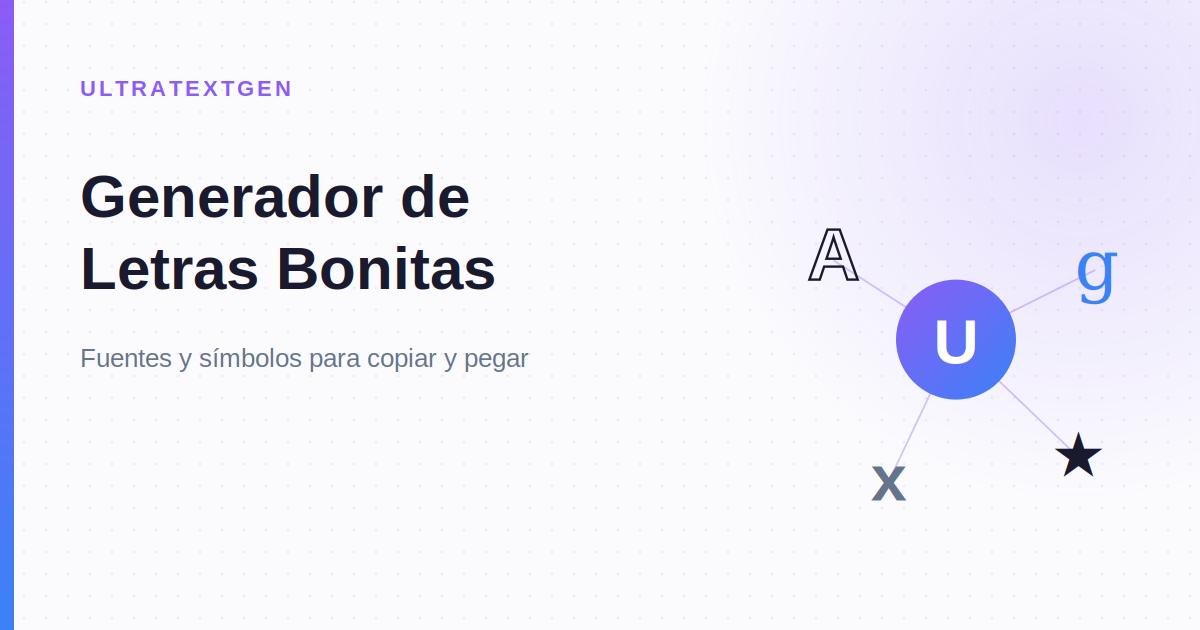
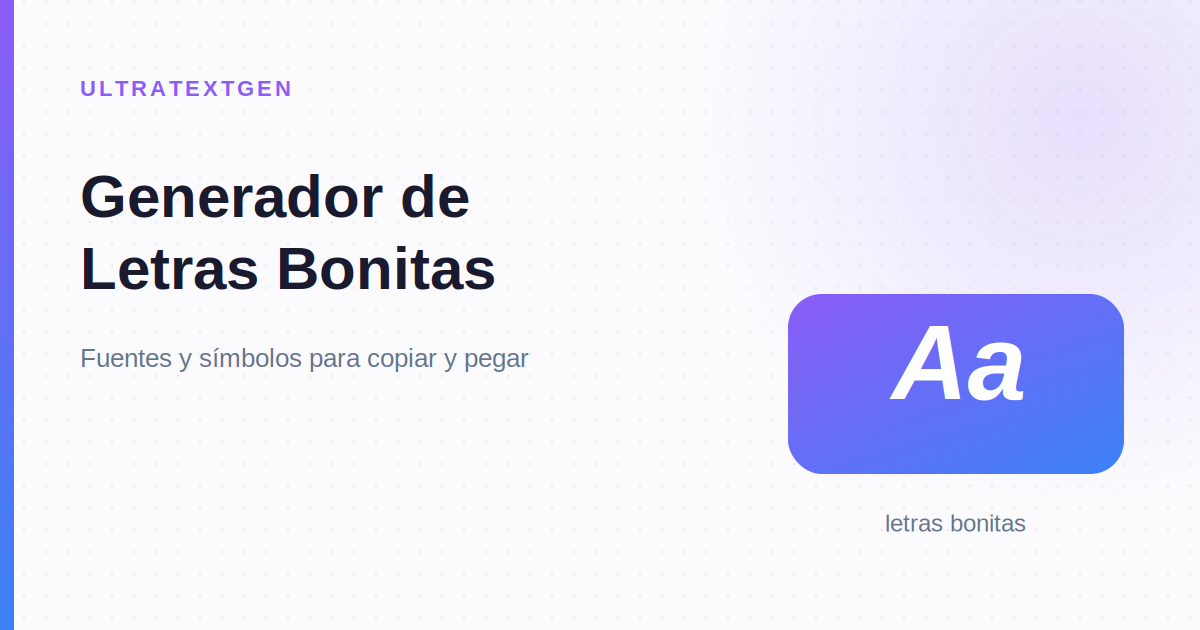
feat: give top-performing locale homepages a bespoke OG card motif
id/, es/, and pl/ are the site's clearest-performing localized homepages,
so their social cards now use a locale-tuned type-specimen motif instead
of the generic master brand mark — id echoes the "aesthetic" styling that
drives its dominant query cluster, es mirrors its own top-performing
letras-bonitas page, and pl features the Polish Ł letterform. Reuses the
existing m_typo motif via a new LOCALIZED_HOME_MOTIF registry in
generate-site-art.py; the other 7 locales keep the master motif until
their traffic earns the same treatment. Only the 3 affected PNGs were
regenerated to avoid render churn on the other cards.

Claude-Session: https://claude.ai/code/session_015XLPGjjK9pnEf9q2i3okKa

Changed region(s): [[0.6475, 0.3619, 0.9558, 0.8444]]

diff --git a/scripts/generate-site-art.py b/scripts/generate-site-art.py
@@ -548,7 +548,8 @@ def glyphs(*g):
 # Localized homepage social cards. Each localized homepage (de/, es/, ...) used
 # to share the English homepage card, leaving English copy on a translated page.
 # Each entry is  locale -> (og_filename, title, subtitle)  and renders with the
-# master brand motif. Filenames are descriptive (keyword-led) for Google Images.
+# master brand motif by default. Filenames are descriptive (keyword-led) for
+# Google Images.
 LOCALIZED_HOME = {
   "de": ("coole-schriftarten-generator-preview",
          "Coole Schriftarten Generator", "Schöne Schriftarten und Symbole kopieren"),
@@ -570,6 +571,24 @@ LOCALIZED_HOME = {
          "Generator Font Aesthetic", "Font dan simbol keren untuk disalin"),
   "vi": ("tao-chu-kieu-dep-preview",
          "Tạo Chữ Kiểu Đẹp", "Phông chữ và ký tự đặc biệt để sao chép"),
+}
+
+# Bespoke motifs for the locales with demonstrated organic performance (GSC
+# click share), replacing the master brand motif with a type specimen tuned
+# to that market's actual query intent. Every other locale keeps m_brand —
+# bespoke treatment is gated on demand, same as everywhere else on the site;
+# more locales earn one here as their traffic does.
+LOCALIZED_HOME_MOTIF = {
+  # id: the #1 site-wide query cluster is "huruf aesthetic" / "tulisan
+  # aesthetic" — echo the spaced vaporwave treatment used on
+  # category-aesthetic-fonts instead of the generic brand mark.
+  "id": P(m_typo, sample="a e s", size=72, spacing="6", label="huruf aesthetic"),
+  # es: mirrors the es-letras-bonitas landing page (its top-performing page)
+  # so the homepage card foreshadows the styling searchers land on.
+  "es": P(m_typo, sample="Aa", style="italic", size=88, label="letras bonitas"),
+  # pl: the Ł/ł letterform is uniquely Polish — more locale-authentic than
+  # a generic "Aa" for the "ładne literki" (pretty letters) query set.
+  "pl": P(m_typo, sample="Łł", size=84, label="ładne literki"),
 }
 
 # The homepage card filename (root index.html + the fallback for localized
@@ -1328,9 +1347,12 @@ def main():
         output_width=1200, output_height=630)
 
     # Localized homepage cards — translated copy on a translated page.
-    for _loc, (fname, title, sub) in LOCALIZED_HOME.items():
+    # High-demand locales (LOCALIZED_HOME_MOTIF) get a bespoke motif; the
+    # rest still use the master brand motif.
+    for loc, (fname, title, sub) in LOCALIZED_HOME.items():
+        motif = LOCALIZED_HOME_MOTIF.get(loc, m_brand)
         cairosvg.svg2png(
-            bytestring=og_png_svg(fname, title, sub, m_brand, K_SITE).encode(),
+            bytestring=og_png_svg(fname, title, sub, motif, K_SITE).encode(),
             write_to=os.path.join(OG, f"{fname}.png"),
             output_width=1200, output_height=630)
 

diff --git a/docs/image-seo-fixes.md b/docs/image-seo-fixes.md
@@ -218,3 +218,33 @@ Per-page status (intent, priority, card path) is in `data/image_seo_status.csv`.
   the 11 home/localized cards were rendered in this pass; the 221 existing
   per-page cards were left byte-for-byte unchanged to avoid render churn. Glyph
   coverage for all locales was visually verified.
+
+---
+
+## 8. Bespoke locale motifs — implemented (2026-07-11)
+
+§5 flagged that all 10 localized homepage cards reused the master brand
+motif (`m_brand`) and that giving high-demand locales a bespoke motif was
+optional design polish, gated on demand. `/id/` and `/es/` are now the
+site's clearest-performing localized homepages, with `/pl/` next behind
+them, so those three moved off the generic brand mark:
+
+| Locale | Card | Motif rationale |
+|---|---|---|
+| `id` | `generator-font-aesthetic-preview.png` | Echoes the spaced "aesthetic" type treatment already used on `category-aesthetic-fonts` — the site's single largest query cluster is "huruf aesthetic" / "tulisan aesthetic", so the homepage card now foreshadows that styling instead of a generic brand mark. |
+| `es` | `generador-de-letras-bonitas-preview.png` | Mirrors the `es-letras-bonitas` landing page (its own top performer), so the homepage card and the page searchers land on now match. |
+| `pl` | `generator-ladnych-czcionek-preview.png` | Uses the Polish Ł/ł letterform — more locale-authentic than a generic "Aa" for the "ładne literki" query set. |
+
+No new motif-drawing code was needed — all three reuse the existing
+`m_typo` type-specimen motif (already built for exactly this "sample +
+label" job) via a new `LOCALIZED_HOME_MOTIF` registry in
+`scripts/generate-site-art.py`, which `main()` consults per locale, falling
+back to `m_brand` for the remaining 7. Regeneration only touched these 3
+PNGs — the other 7 locale cards and every other existing card are
+byte-for-byte unchanged, same discipline as the render-churn note above.
+
+The remaining locales stay on `m_brand` by design: bespoke treatment is
+gated on demonstrated demand here the same way it is everywhere else on the
+site (see CLAUDE.md's flair philosophy). As a locale's organic performance
+grows, add it to `LOCALIZED_HOME_MOTIF` — that registry is the whole
+extension point.
